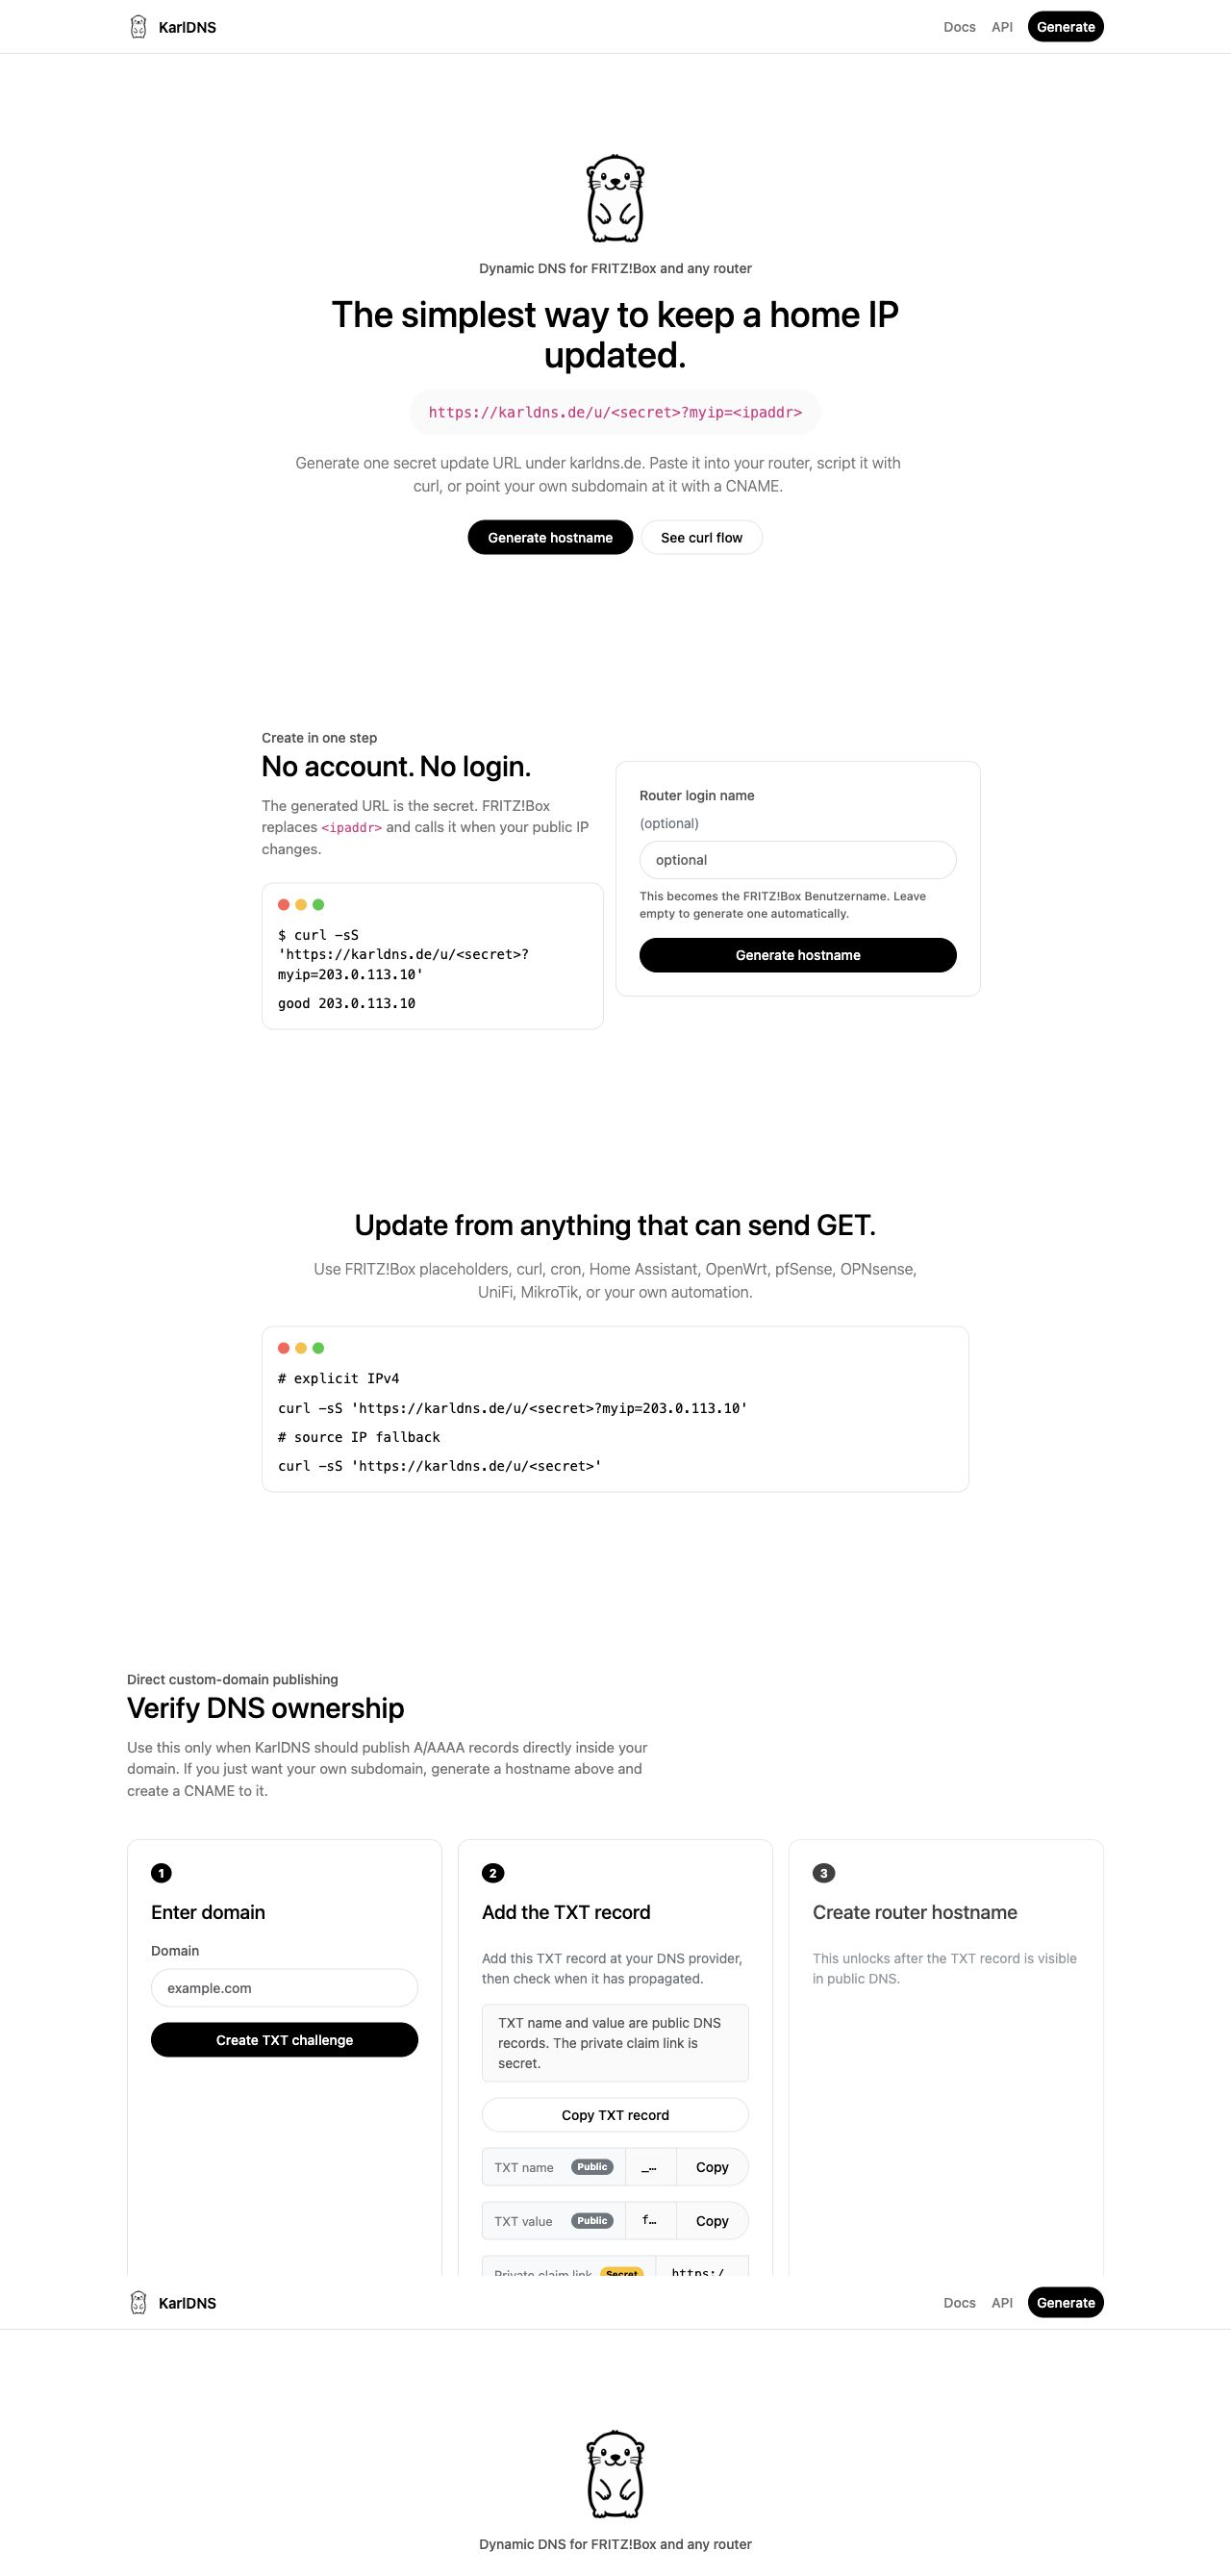
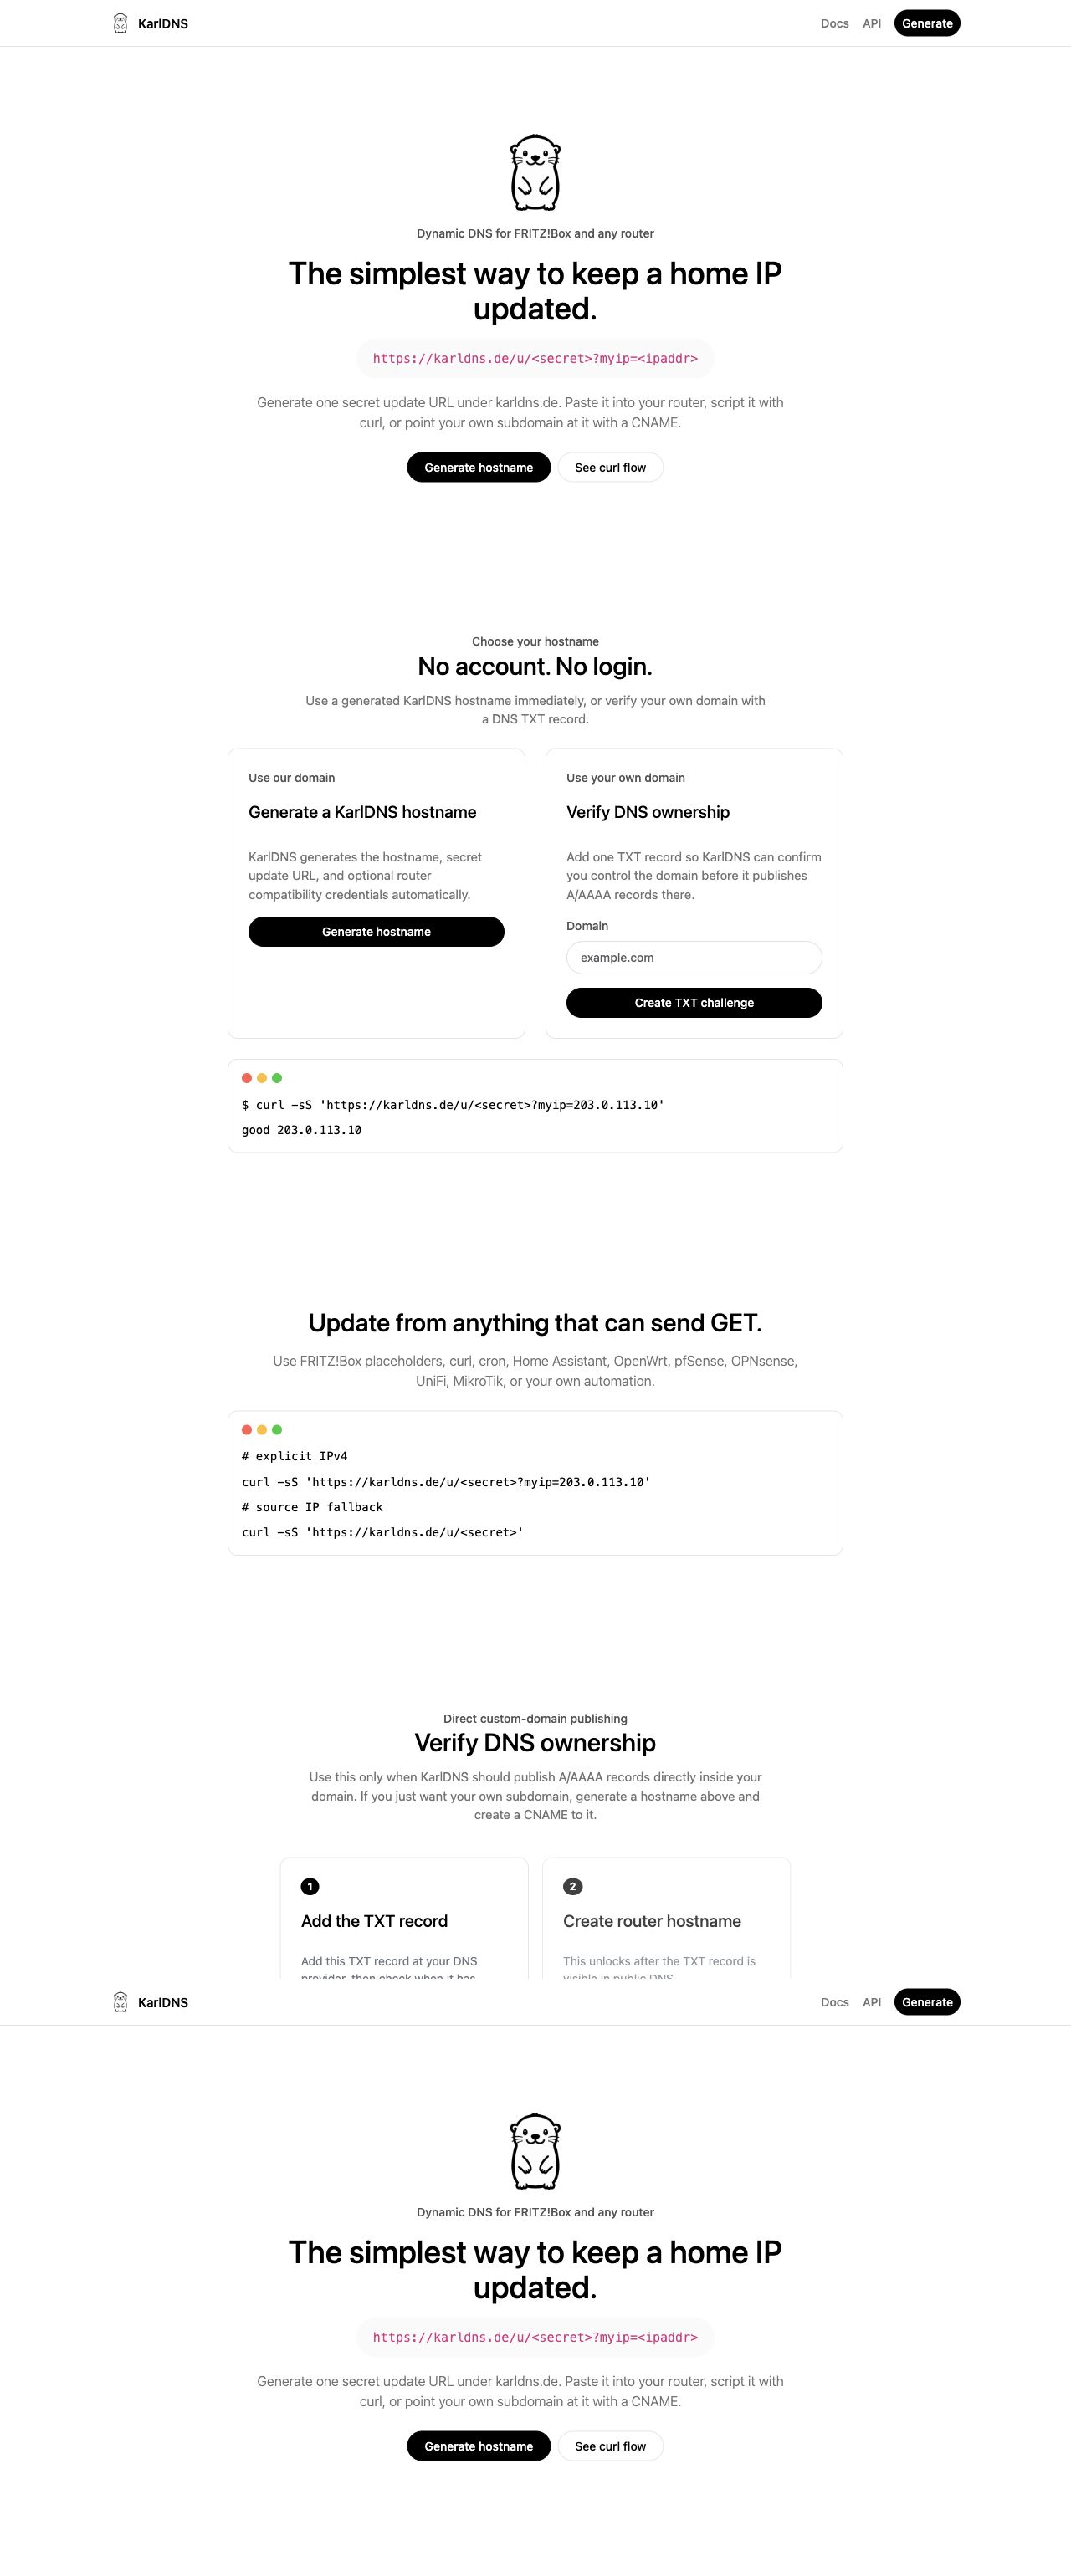
Align hostname choice layout

diff --git a/router_dyndns/ddns.py b/router_dyndns/ddns.py
@@ -664,21 +664,40 @@ def _render_public_home(
           {created_html}
           <section class="section" id="create">
             <div class="container narrow">
-              <div class="row g-4 align-items-center">
-              <div class="col-lg-6">
-                <p class="eyebrow">Create in one step</p>
+              <div class="text-center mb-4">
+                <p class="eyebrow">Choose your hostname</p>
                 <h2>No account. No login.</h2>
-                <p class="section-copy">The generated URL is the secret. FRITZ!Box replaces <code>&lt;ipaddr&gt;</code> and calls it when your public IP changes.</p>
-                <div class="terminal-card mt-4" aria-hidden="true">
-                  <div class="terminal-dots"><span></span><span></span><span></span></div>
-                  <code>$ curl -sS 'https://karldns.de/u/&lt;secret&gt;?myip=203.0.113.10'</code>
-                  <code>good 203.0.113.10</code>
+                <p class="section-copy mx-auto">Use a generated KarlDNS hostname immediately, or verify your own domain with a DNS TXT record.</p>
+              </div>
+              <div class="row g-4 align-items-stretch">
+                <div class="col-lg-6">
+                  <div class="card card-body h-100 gap-3">
+                    <p class="eyebrow">Use our domain</p>
+                    <h3>Generate a KarlDNS hostname</h3>
+                    <p class="section-copy mb-0">KarlDNS generates the hostname, secret update URL, and optional router compatibility credentials automatically.</p>
+                    <form method="post" action="/magic" class="d-grid gap-3" aria-label="Create a generated DynDNS hostname">
+                      <button type="submit" class="btn btn-primary rounded-pill">Generate hostname</button>
+                    </form>
+                  </div>
+                </div>
+                <div class="col-lg-6">
+                  <div class="card card-body h-100 gap-3">
+                    <p class="eyebrow">Use your own domain</p>
+                    <h3>Verify DNS ownership</h3>
+                    <p class="section-copy mb-0">Add one TXT record so KarlDNS can confirm you control the domain before it publishes A/AAAA records there.</p>
+                    <form method="post" action="/request-domain" class="d-grid gap-3" aria-label="Request a custom domain TXT challenge">
+                      <label>Domain
+                        <input class="form-control" name="domain" placeholder="example.com" autocomplete="off" autocapitalize="none" spellcheck="false" required>
+                      </label>
+                      <button type="submit" class="btn btn-primary rounded-pill">Create TXT challenge</button>
+                    </form>
+                  </div>
                 </div>
               </div>
-              <form method="post" action="/magic" class="col-lg-5 card card-body gap-3" aria-label="Create a generated DynDNS hostname">
-                <p class="section-copy mb-0">KarlDNS generates the hostname, secret update URL, and optional router compatibility credentials automatically.</p>
-                <button type="submit" class="btn btn-primary rounded-pill">Generate hostname</button>
-              </form>
+              <div class="terminal-card mt-4" aria-hidden="true">
+                <div class="terminal-dots"><span></span><span></span><span></span></div>
+                <code>$ curl -sS 'https://karldns.de/u/&lt;secret&gt;?myip=203.0.113.10'</code>
+                <code>good 203.0.113.10</code>
               </div>
             </div>
           </section>
@@ -729,20 +748,21 @@ def _top_nav(label: str | None = None, links: str = "") -> str:
 
 
 def _custom_domain_flow(service: DdnsService, challenge: dict[str, str | None] | None, message: str | None) -> str:
+    if not challenge:
+        return ""
     challenge_html = ""
     create_form = ""
-    if challenge:
-        domain = html.escape(str(challenge["domain"]))
-        token = str(challenge["token"])
-        claim_secret = html.escape(str(challenge.get("claim_secret") or ""))
-        verification_name = service.verification_name(str(challenge["domain"]))
-        claim_url = service.domain_claim_url(challenge)
-        status = html.escape(message or "Add this TXT record at your DNS provider, then check when it has propagated.")
-        txt_bundle = f"TXT name: {verification_name}\nTXT value: {token}"
-        challenge_html = f"""
-        <div class="col-md-4">
+    domain = html.escape(str(challenge["domain"]))
+    token = str(challenge["token"])
+    claim_secret = html.escape(str(challenge.get("claim_secret") or ""))
+    verification_name = service.verification_name(str(challenge["domain"]))
+    claim_url = service.domain_claim_url(challenge)
+    status = html.escape(message or "Add this TXT record at your DNS provider, then check when it has propagated.")
+    txt_bundle = f"TXT name: {verification_name}\nTXT value: {token}"
+    challenge_html = f"""
+        <div class="col-lg-5">
         <div class="card card-body h-100 gap-3">
-          <span class="badge text-bg-primary rounded-circle align-self-start">2</span>
+          <span class="badge text-bg-primary rounded-circle align-self-start">1</span>
           <h3>Add the TXT record</h3>
           <p class="small text-secondary mb-0 mt-2">{status}</p>
           <div class="alert alert-info mb-0 py-2 small">TXT name and value are public DNS records. The private claim link is secret.</div>
@@ -758,11 +778,11 @@ def _custom_domain_flow(service: DdnsService, challenge: dict[str, str | None] |
         </div>
         </div>
         """
-        if challenge.get("verified_at"):
-            create_form = f"""
-            <div class="col-md-4">
+    if challenge.get("verified_at"):
+        create_form = f"""
+            <div class="col-lg-5">
             <div class="card card-body h-100 gap-3">
-              <span class="badge text-bg-primary rounded-circle align-self-start">3</span>
+              <span class="badge text-bg-primary rounded-circle align-self-start">2</span>
               <h3>Create router hostname</h3>
               <form method="post" action="/accounts" class="d-grid gap-3" aria-label="Create custom-domain router credentials">
                 <input type="hidden" name="mode" value="custom">
@@ -776,11 +796,11 @@ def _custom_domain_flow(service: DdnsService, challenge: dict[str, str | None] |
             </div>
             </div>
             """
-        else:
-            create_form = """
-            <div class="col-md-4">
+    else:
+        create_form = """
+            <div class="col-lg-5">
             <div class="card card-body h-100 gap-3 opacity-75">
-              <span class="badge text-bg-primary rounded-circle align-self-start">3</span>
+              <span class="badge text-bg-primary rounded-circle align-self-start">2</span>
               <h3>Create router hostname</h3>
               <p class="small text-secondary mb-0 mt-2">This unlocks after the TXT record is visible in public DNS.</p>
             </div>
@@ -789,27 +809,13 @@ def _custom_domain_flow(service: DdnsService, challenge: dict[str, str | None] |
 
     return f"""
     <section class="section" id="custom-domain">
-      <div class="container">
-        <div class="d-flex align-items-md-center justify-content-between gap-4 flex-column flex-md-row">
-          <div>
-            <p class="eyebrow">Direct custom-domain publishing</p>
-            <h2>Verify DNS ownership</h2>
-            <p class="section-copy">Use this only when KarlDNS should publish A/AAAA records directly inside your domain. If you just want your own subdomain, generate a hostname above and create a CNAME to it.</p>
-          </div>
+      <div class="container narrow">
+        <div class="text-center">
+          <p class="eyebrow">Direct custom-domain publishing</p>
+          <h2>Verify DNS ownership</h2>
+          <p class="section-copy mx-auto">Use this only when KarlDNS should publish A/AAAA records directly inside your domain. If you just want your own subdomain, generate a hostname above and create a CNAME to it.</p>
         </div>
-        <div class="row g-3 mt-4">
-          <div class="col-md-4">
-          <div class="card card-body h-100 gap-3">
-            <span class="badge text-bg-primary rounded-circle align-self-start">1</span>
-            <h3>Enter domain</h3>
-            <form method="post" action="/request-domain" class="d-grid gap-3" aria-label="Request a custom domain TXT challenge">
-              <label>Domain
-                <input class="form-control" name="domain" placeholder="example.com" autocomplete="off" autocapitalize="none" spellcheck="false" required>
-              </label>
-              <button type="submit" class="btn btn-primary rounded-pill">Create TXT challenge</button>
-            </form>
-          </div>
-          </div>
+        <div class="row g-3 mt-4 justify-content-center">
           {challenge_html}
           {create_form}
         </div>